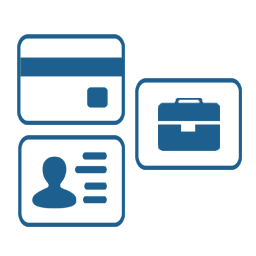
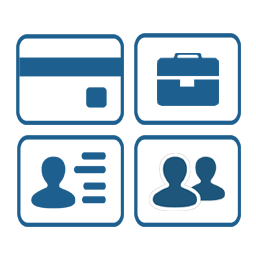
Added 4 zip

diff --git a/index.html b/index.html
@@ -10,6 +10,7 @@ layout: default
       <div class="infos">
         <h1>One Register Check-In Anywhere</h1>
         <h2>Add your personal info and use it anywhere<br> with just a tap.</h2>
+
         <a href="https://play.google.com/store/search?q=pub:ZipCheckin">
           <img alt="Get it on Google Play" src="https://developer.android.com/images/brand/en_generic_rgb_wo_60.png" />
         </a>
@@ -28,7 +29,7 @@ layout: default
         <li>
           <img src="images/steps/step-01.png">
           <h4>Create your Zips</h4>
-          <p>Add your info choosing 3 differente types of Zip.<p>
+          <p>Add your info choosing 4 differente types of Zip.<p>
         </li>
         <li>
           <img src="images/steps/step-02.png">
@@ -69,7 +70,7 @@ layout: default
   
     <section class="types-of-zip">
 
-      <h3>You can create 3 types of Zip</h3>
+      <h3>You can create 4 types of Zip</h3>
 
       <ul class="screen-gallery">
         <li>
@@ -83,6 +84,10 @@ layout: default
         <li> 
           <img src="/images/screens/screen-04.jpg">
           <p>Credit Card</p>
+        </li>
+        <li> 
+          <img src="/images/screens/screen-04.jpg">
+          <p>Acompanhantes</p>
         </li>
       </ul>
   

diff --git a/_sass/_layout.scss b/_sass/_layout.scss
@@ -138,10 +138,7 @@ header.default {
     display: inline-block;
     
     img {
-      width: 98%;
-      border: 1px solid $light-grey;
-      background: $white;
-      padding: 5px;
+      width: 100%;
     }
 
     p {
@@ -156,25 +153,34 @@ header.default {
   margin-top: 50px;
   text-align: center;
   
+  ul {
+    margin: 40px 0 0 0;
+    padding: 0;
+  }
+  
   li {
 
     img {
-      width: 100%;
-      border: none;
-      padding: 0;
       box-shadow: 0 0 12px #ddd;
     }
   } // li
 }
-
-
-// Types
 
 .types-of-zip {
   text-align: center;
   background: $white;
   margin-top: 60px;
   padding: 50px;
+  
+  ul {
+    margin: 0;
+    padding: 0;
+  }
+  
+  li {
+    width: 30%;
+    margin-top: 40px;
+  }
 }
 
 

diff --git a/_sass/_responsive.scss b/_sass/_responsive.scss
@@ -132,11 +132,10 @@
   }
   
   .screen-gallery {
-    margin-top: 10px;
     
     li {
       width: 100%;
-      margin: 30px 0 0 0;
+      margin: 40px 0 0 0;
 
       img {
         width: 85%;
@@ -146,6 +145,11 @@
   }
 
   .screenshots {
+    
+    ul {
+      margin: 0;
+    }  
+    
     li img {
       width: 60%;
     }
